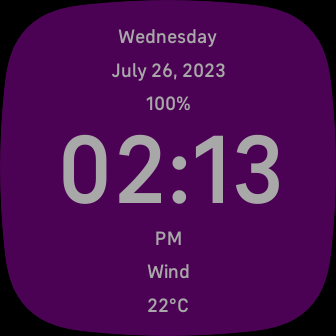
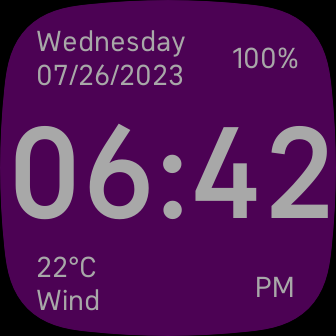
Move lesser UI elements to corners

diff --git a/companion/index.js b/companion/index.js
@@ -49,35 +49,36 @@ const weatherSimple = {
    Windy: 'Wind'
 }
 function updateWeather(){
-if (companion.permissions.granted("access_location")) {
-   weather
-     .getWeatherData()
-     .then((data) => {
-       if (data.locations.length > 0) {
-         const temp = Math.floor(data.locations[0].currentWeather.temperature);
-         const cond = data.locations[0].currentWeather.weatherCondition;
-         const loc = data.locations[0].name;
-         const unit = data.temperatureUnit;
-         const condDisplay = weatherSimple[weatherCondition(cond)]
-         if (messaging.peerSocket.readyState === messaging.peerSocket.OPEN) {
-            messaging.peerSocket.send({temp,cond,loc,unit, condDisplay});
-          } else {
+  if (companion.permissions.granted("access_location")) {
+    weather
+      .getWeatherData()
+      .then((data) => {
+        if (data.locations.length > 0) {
+          const temp = Math.floor(data.locations[0].currentWeather.temperature);
+          const cond = data.locations[0].currentWeather.weatherCondition;
+          const loc = data.locations[0].name;
+          const unit = data.temperatureUnit;
+          const condDisplay = weatherSimple[weatherCondition(cond)]
+          if (messaging.peerSocket.readyState === messaging.peerSocket.OPEN) {
+              messaging.peerSocket.send({temp,cond,loc,unit, condDisplay});
+            } else {
+            }
+        }
+      })
+      .catch((ex) => {
+          if(ex){
+              console.error(ex);
           }
-       }
-     })
-     .catch((ex) => {
-        if(ex){
-            console.error(ex);
-         }
-     });
-}
+      });
+  }
 }
 messaging.peerSocket.onopen = updateWeather
 companion.addEventListener("readystatechanged", updateWeather)
 companion.addEventListener("wakeinterval", updateWeather);
-updateWeather()
 messaging.peerSocket.onmessage = evt => {
    if(evt && evt.action){
     updateWeather()
    }
   };
+companion.wakeInterval = 1000 * 60 * 15;
+updateWeather()

diff --git a/resources/styles.css b/resources/styles.css
@@ -3,71 +3,71 @@
 }
 
 #timeLabel {
-  font-size: 100;
+  font-size: 135;
   font-family: System-Bold;
   text-length: 32;
   text-anchor: middle;
   x: 50%;
-  y: 50%+35;
-  fill: #A8A8A8;
-}
-#amPmLabel {
-  font-size: 20;
-  font-family: System-Bold;
-  text-length: 32;
-  text-anchor: middle;
-  x: 50%;
-  y: 70%+10;
+  y: 50%+50;
   fill: #A8A8A8;
 }
 
 #batteryLabel {
-  font-size: 20;
-  font-family: System-Bold;
+  font-size: 30;
+  font-family: System-Regular;
   text-length: 32;
-  text-anchor: middle;
-  x: 50%;
-  y: 30%+10;
+  text-anchor: end;
+  x: 89%;
+  y: 16%+15;
   fill: #A8A8A8;
 }
 
 #dayLabel {
-  font-size: 20;
-  font-family: System-Bold;
+  font-size: 30;
+  font-family: System-Regular;
   text-length: 32;
-  text-anchor: middle;
-  x: 50%;
-  y: 10%+10;
+  text-anchor: start;
+  x: 11%;
+  y: 11%+15;
   fill: #A8A8A8;
 }
 
 #dateLabel {
-  font-size: 20;
-  font-family: System-Bold;
+  font-size: 30;
+  font-family: System-Regular;
   text-length: 32;
-  text-anchor: middle;
-  x: 50%;
-  y: 20%+10;
+  text-anchor: start;
+  x: 11%;
+  y: 21%+15;
   fill: #A8A8A8;
 }
 
 #tempLabel {
-  font-size: 20;
-  font-family: System-Bold;
+  font-size: 30;
+  font-family: System-Regular;
   text-length: 32;
-  text-anchor: middle;
-  x: 50%;
-  y: 90%+10;
+  text-anchor: start;
+  x: 11%;
+  y: 78%+15;
   fill: #A8A8A8;
 }
 
 #weatherLabel {
-  font-size: 20;
-  font-family: System-Bold;
+  font-size: 30;
+  font-family: System-Regular;
   text-length: 32;
-  text-anchor: middle;
-  x: 50%;
-  y: 80%+10;
+  text-anchor: start;
+  x: 11%;
+  y: 88%+15;
   fill: #A8A8A8;
 }
 
+#amPmLabel {
+  font-size: 30;
+  font-family: System-Regular;
+  text-length: 32;
+  text-anchor: end;
+  x: 88%;
+  y: 84%+15;
+  fill: #A8A8A8;
+}

diff --git a/app/index.js b/app/index.js
@@ -45,7 +45,7 @@ clock.ontick = (evt) => {
   let year = today.getFullYear();
   timeLabel.text = `${hours}:${mins}`;
   amPmLabel.text = postfix;
-  dateLabel.text = `${monthName} ${dayNumber}, ${year}`;
+  dateLabel.text = `${month}/${dayNumber}/${year}`;
   dayLabel.text = dayName
   tempLabel.text = temp
   weatherLabel.text = weather
